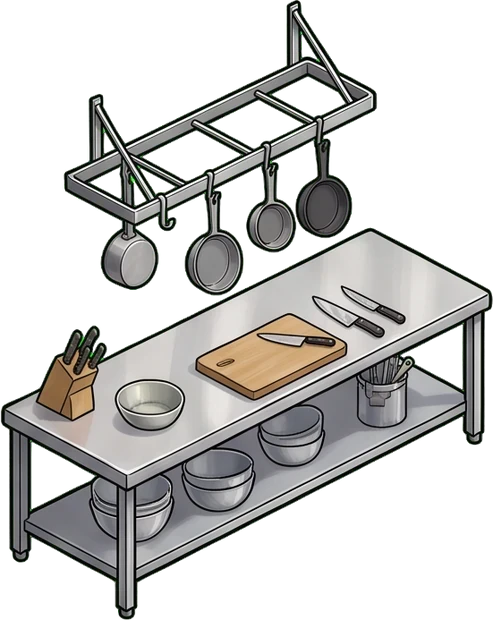
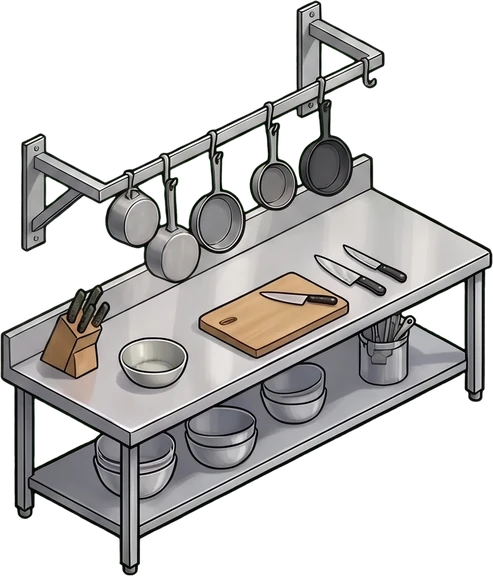
Restaurant pot racks and coffee (Cal: "the wall rack is placed weirdly"; QA #3, #5): against the back wall the prep table's pans hang from a wall rail with brackets into the tile; as the Diner's island they hang from a ceiling rack on chains (rsx_prepi); the drip coffee leaves its stool for the coun

diff --git a/quest-board/app/src/26_world.js b/quest-board/app/src/26_world.js
@@ -350,10 +350,10 @@ LFROOM.restaurant=function(C){
   back(H("r_k3")?"rsx_fridge":"rsx_minifridge",1.1,.9,50);
   if(st>0){if(H("r_k4"))back("rsx_grill",1.6,1.0,40);if(H("r_k5"))back("rsx_fryer",1.9,1.0,30);
     if(st>1&&H("r_k7")){var ov=back("rsx_oven",1.7,1.2,44);C.s("work",ov,1.8,-1,"work",[6,12],{tag:"oven"});lfLight(C,ov,1.0,40,"#ff9a3a",1.4,.5)}
-    var prepAt=H("r_k2")?front("rsx_prep",2.0,.95,30):ix+1;C.s("work",prepAt,isl-.45,-1,"work",[6,10],{tag:"prep"});
+    var prepAt=H("r_k2")?front(LFSPR.rsx_prepi?"rsx_prepi":"rsx_prep",2.0,.95,30):ix+1;C.s("work",prepAt,isl-.45,-1,"work",[6,10],{tag:"prep"});
     if(H("r_k6"))front("rsx_bake",.9,.8,50);if(H("r_k9")&&st>1)front("rsx_dish",1.6,.9,30)}
   else{var pz=H("r_k2")?back("rsx_prep",1.8,.95,30):bx+.8;C.s("work",pz,1.5,-1,"work",[6,10],{tag:"prep"})}
-  if(H("r_cf2")&&st>0)rsS(C,"rs_coffee",Wt-1.7,isl,1.3,.9,26,{flip:1});else if(H("r_cf1"))rsS(C,"rsx_drip",st>0?Wt-1.3:Wt-1.0,st>0?isl:1.4,.7,.6,26,{flip:1});
+  if(H("r_cf2")&&st>0)rsS(C,"rs_coffee",Wt-1.7,isl,1.3,.9,26,{flip:1});/* QA: the drip machine stood on a stool; it sits on the counter now, where the diners pour */
   /* the pass is on the dining room side of that wall: food comes over it, and the good seats face it */
   var fine=H("r_c2")&&st>1,tiles=[1,2,2][st],td=1.8;
   /* QA: the till faces the diners across the counter, not the kitchen */
@@ -362,6 +362,7 @@ LFROOM.restaurant=function(C){
   if(H("r_till")){var sx0=Wi-1.0,sy0=.2+tiles*(td+.05)+.1,sf=lfBox(sx0,sy0,0,.55,.55,20,noir?"#26302c":"#2f5a48"),dc=lfP(sx0+.28,sy0+.55,11);
     C._lb=[sx0,sy0,sx0+.55,sy0+.55];C.add(sx0+sy0+1.1,sf+'<circle cx="'+dc[0].toFixed(1)+'" cy="'+dc[1].toFixed(1)+'" r="3" fill="#d9b46a" stroke="'+LFOL+'" stroke-width=".6"/>');if(LFREC)lfRecBox(sx0,sy0,0,.55,.55,20)}
   lfPrep(C,"pass",Wi-1.0,kd-.5);
+  if(H("r_cf1")&&!(H("r_cf2")&&st>0))rsS(C,"rsx_drip",Wi-.9,1.25,.5,.45,1,{flip:1,dy:-34,nosh:1,dk:-.5});
   if(H("r_c1")||H("r_c2"))for(var tj=0;tj<tiles;tj++)[.45,1.35].forEach(function(o){var x=Wi-1.75,y=.2+tj*(td+.05)+o;lfSpr(C,"sbx_stool",x-.3,y-.3,.6,.6,{h:1,dk:.5,nob:1,nosh:1,sh:1});
     var n0=C.st.length;C.s("sit",x,y,1,"eat",[10,20],{tag:"diner",lift:1,sz:10,wx:x-1.1,wy:y,tb:[x+.9,y]});lfConvert(C,n0,"sit",{uact:"eat",lbl:"S",grp:"s"})});
   /* booths down the window wall, tables on the rest of the floor with room to walk between them */
